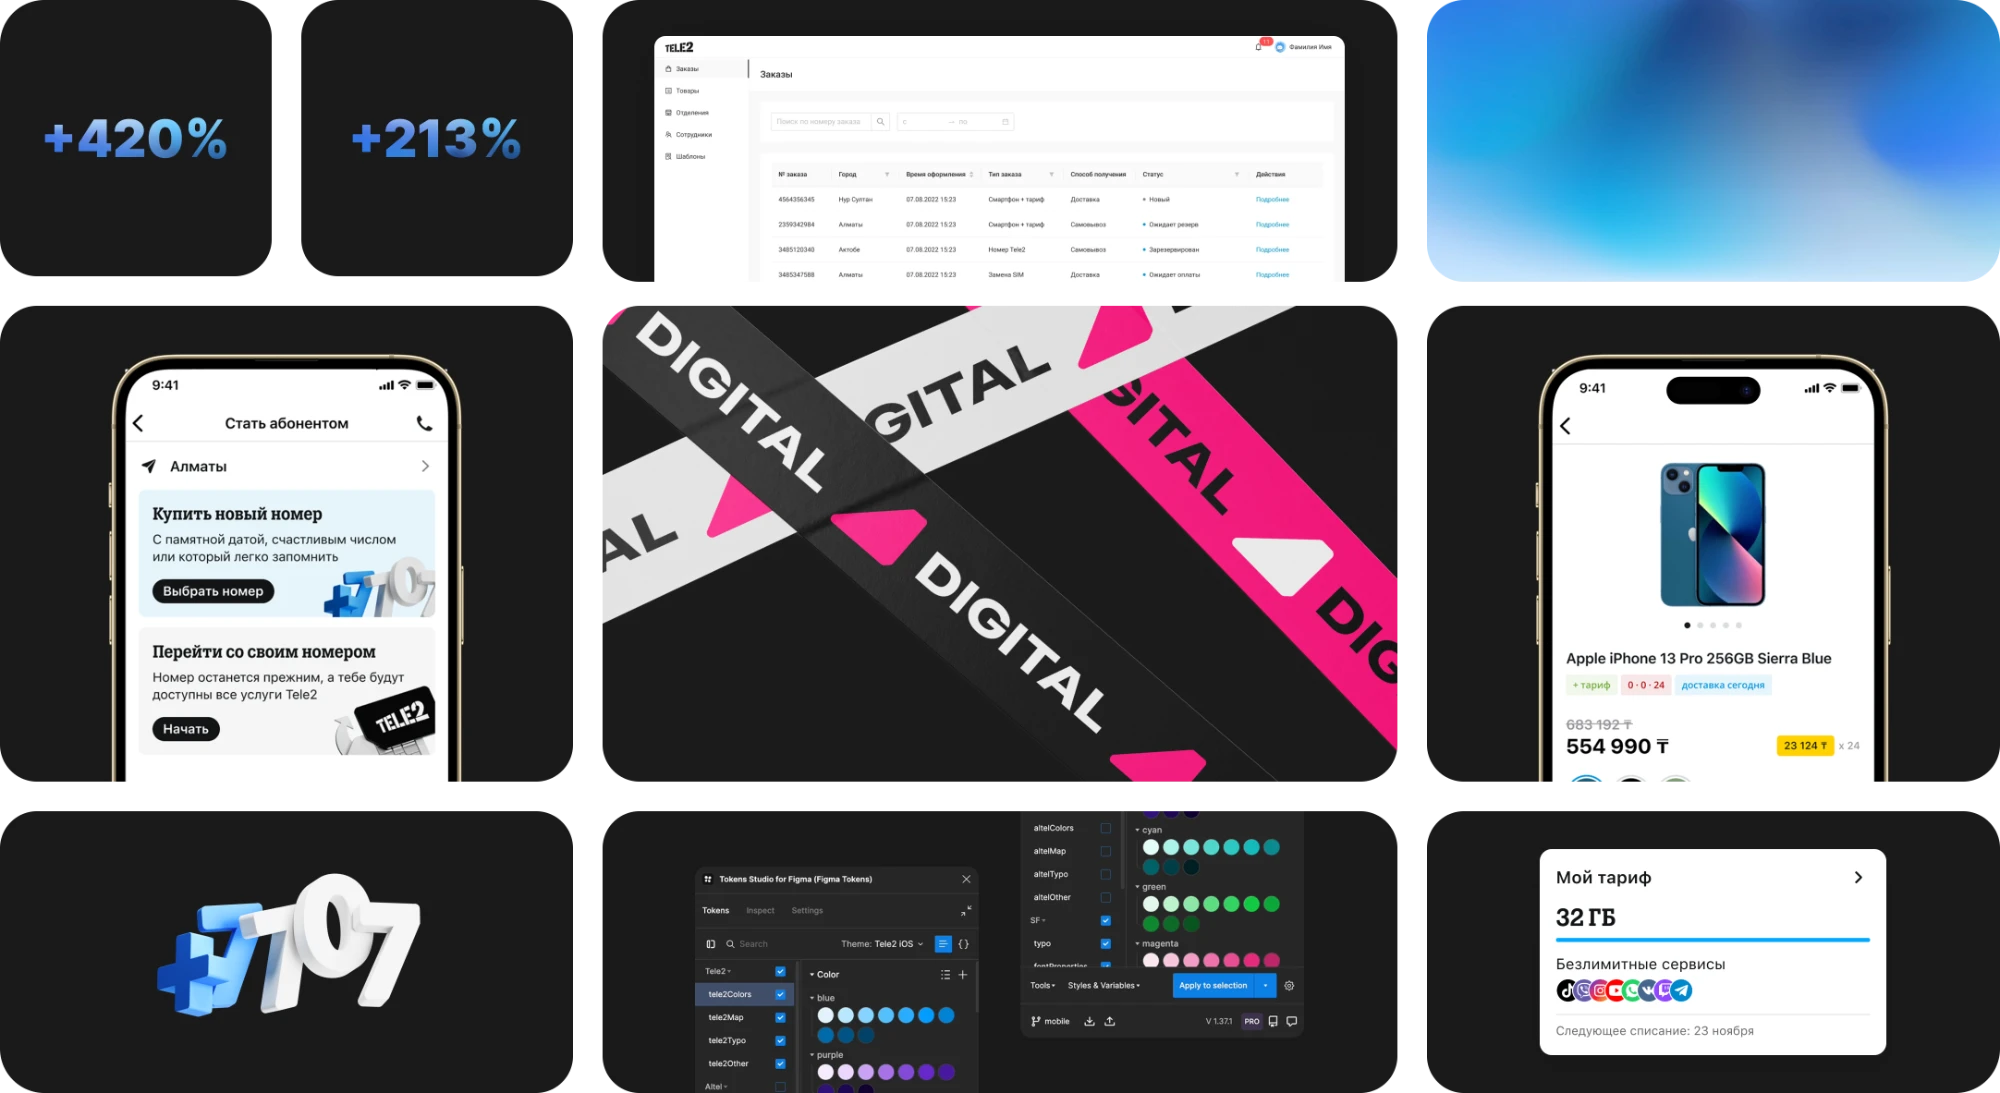
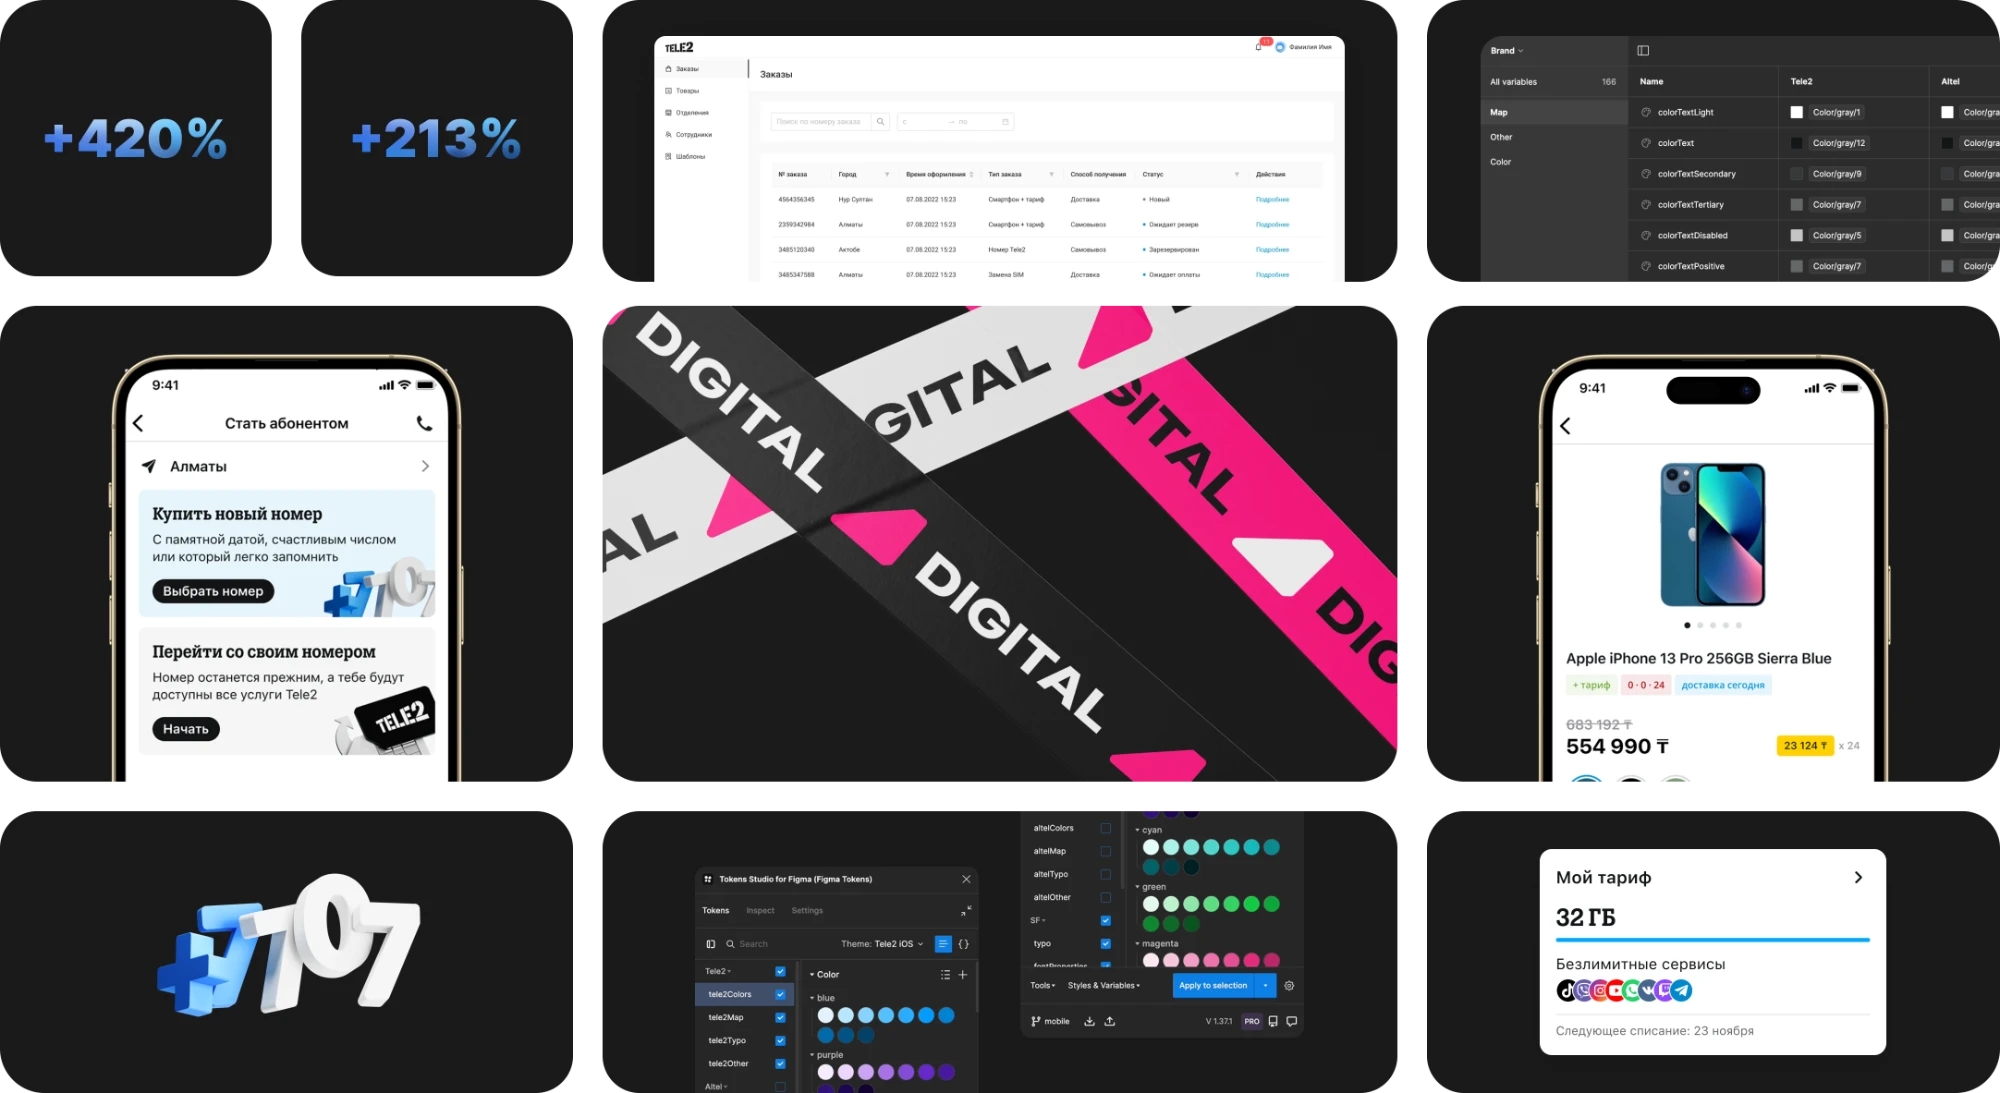
About: update Tele2 light/dark images

Changed region(s): [[0.713, 0.0, 1.0, 0.28]]

diff --git a/about.html b/about.html
@@ -128,8 +128,8 @@
               <p>Отвечал за&nbsp;нативную дизайн-систему приложения, а&nbsp;для сайта и&nbsp;админки менеджеров внедрил Ant Design, чтобы ускорить разработку. Оборудовал комнату для CustDev и&nbsp;UX-тестов, помогал дизайнерам и&nbsp;выстраивал дизайн-процессы.</p>
             </div>
             <figure class="job__media">
-              <img draggable="false" class="job__media-light" src="images/tele2-light.webp?v=5" alt="Работа в Tele2 / Altel: рост покупок и переносов номера, экраны приложения, админка заказов, токены дизайн-системы для двух брендов" width="2000" height="1093" loading="lazy">
-              <img draggable="false" class="job__media-dark" src="images/tele2-dark.webp?v=5" alt="Работа в Tele2 / Altel: рост покупок и переносов номера, экраны приложения, админка заказов, токены дизайн-системы для двух брендов" width="2000" height="1093" loading="lazy">
+              <img draggable="false" class="job__media-light" src="images/tele2-light.webp?v=6" alt="Работа в Tele2 / Altel: рост покупок и переносов номера, экраны приложения, админка заказов, токены дизайн-системы для двух брендов" width="2000" height="1093" loading="lazy">
+              <img draggable="false" class="job__media-dark" src="images/tele2-dark.webp?v=6" alt="Работа в Tele2 / Altel: рост покупок и переносов номера, экраны приложения, админка заказов, токены дизайн-системы для двух брендов" width="2000" height="1093" loading="lazy">
             </figure>
           </div>
         </li>
